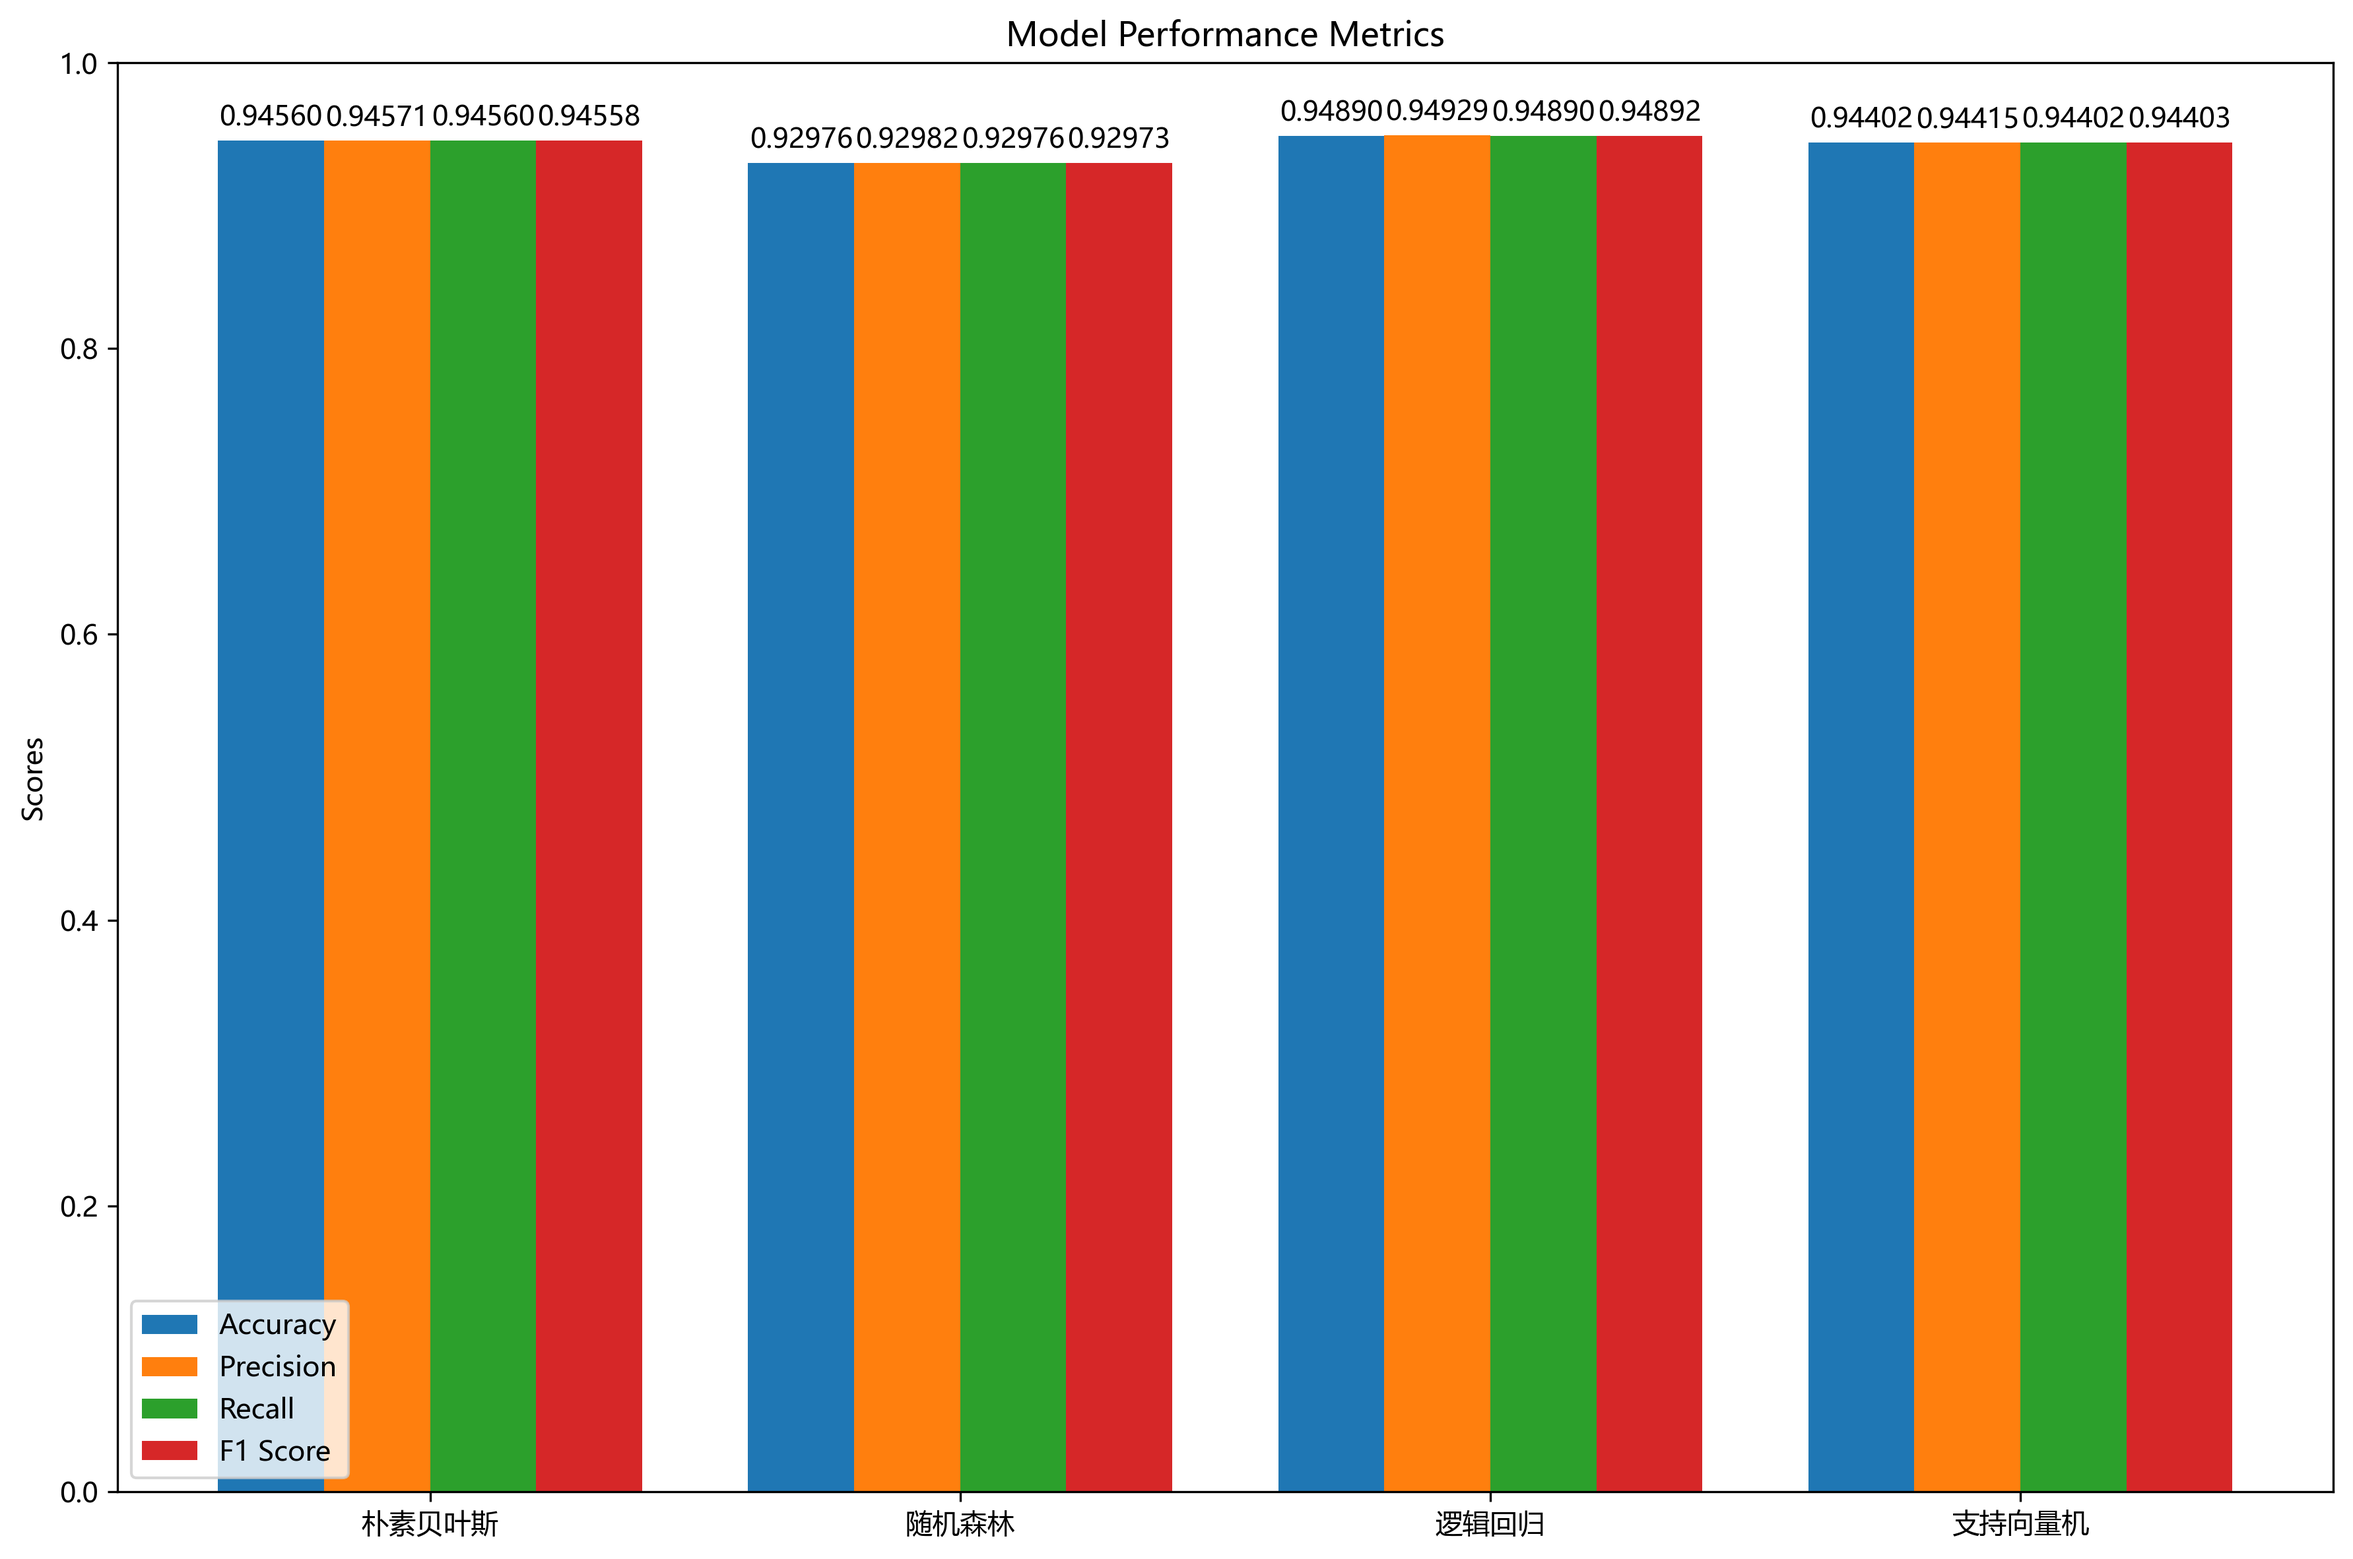
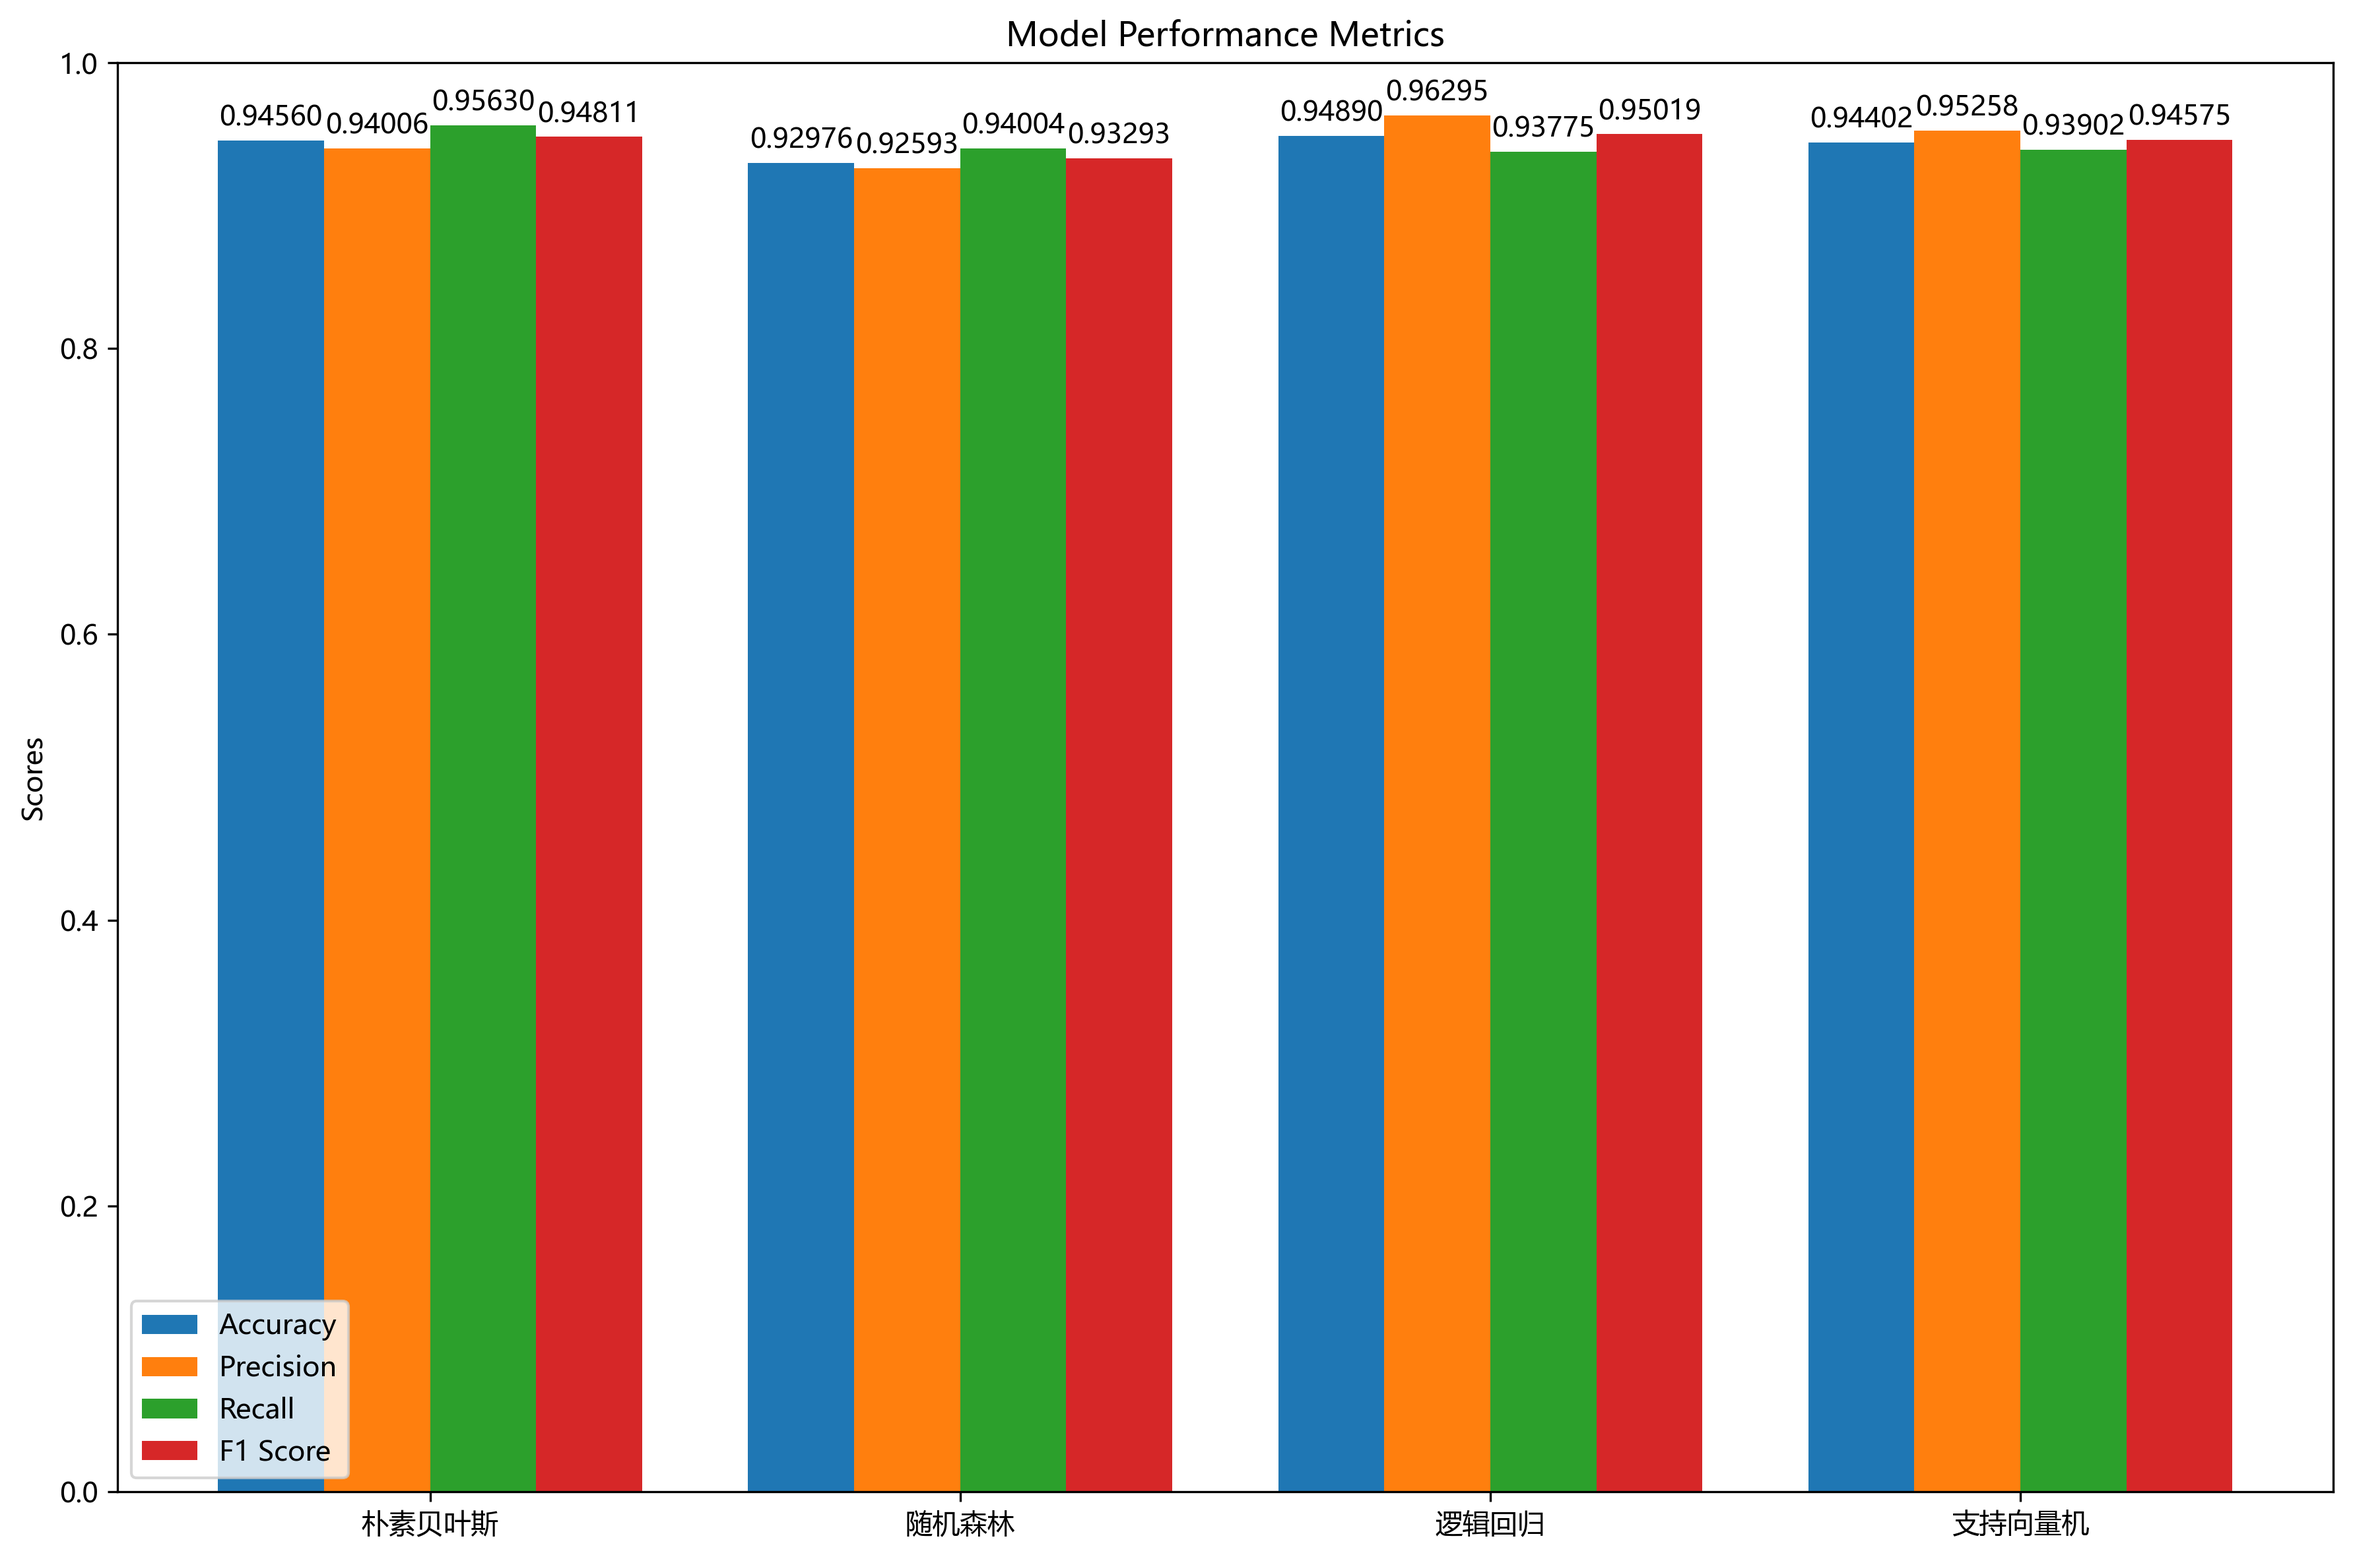
try

diff --git a/main.py b/main.py
@@ -74,15 +74,38 @@ def train_and_predict_single_model(model_name, model_class, X_train, X_test, y_t
         # 评估模型
         print("\n评估模型...")
         y_pred = model.predict(X_test)
-        accuracy = accuracy_score(y_test, y_pred)
-        print(f"{model_name} 准确率:", accuracy_score(y_test, y_pred))
-        print(f"{model_name} 分类报告:")
-        print(classification_report(y_test, y_pred))
-        report = classification_report(y_test, y_pred, output_dict=True)
-        precision = report['weighted avg']['precision']
-        recall = report['weighted avg']['recall']
-        f1_score = report['weighted avg']['f1-score']
         
+        # 计算混淆矩阵
+        from sklearn.metrics import confusion_matrix, classification_report
+        cm = confusion_matrix(y_test, y_pred)
+        report = classification_report(y_test, y_pred, output_dict=True)
+        
+        # 构建评估结果字典
+        evaluation_results = {
+            "模型名称": model_name,
+            "混淆矩阵": {
+                "true_negative": int(cm[0][0]),  # 真负例
+                "false_positive": int(cm[0][1]), # 假正例
+                "false_negative": int(cm[1][0]), # 假负例
+                "true_positive": int(cm[1][1])   # 真正例
+            },
+            "评估指标": {
+                "准确率": float(report['accuracy']),
+                "精确率": float(report['1']['precision']),
+                "召回率": float(report['1']['recall']),
+                "F1分数": float(report['1']['f1-score'])
+            }, #标签为1的是正例，也就是标题党
+            "详细分类报告": report
+        }
+        
+        # 保存为JSON文件
+        import json
+        output_path = f"{model_name}_evaluation.json"
+        with open(output_path, 'w', encoding='utf-8') as f:
+            json.dump(evaluation_results, f, ensure_ascii=False, indent=4)
+            
+        print(f"\n{model_name} 评估结果已保存至 {output_path}")
+        accuracy, precision, recall, f1_score=evaluation_results["评估指标"]["准确率"],evaluation_results["评估指标"]["精确率"],evaluation_results["评估指标"]["召回率"],evaluation_results["评估指标"]["F1分数"]
         
         # 预测新闻标题
         results = []
@@ -164,7 +187,9 @@ def main():
     
     # 划分训练集和测试集
     X_train, X_test, y_train, y_test = train_test_split(X, y, test_size=0.2, random_state=42)
-    
+    print("*****X_train.shape:", X_train.shape)
+    print("*****X_test.shape:", X_test.shape)
+    # exit()
     # 逐个训练和预测模型
     models = [
         ("朴素贝叶斯", MultinomialNB),
